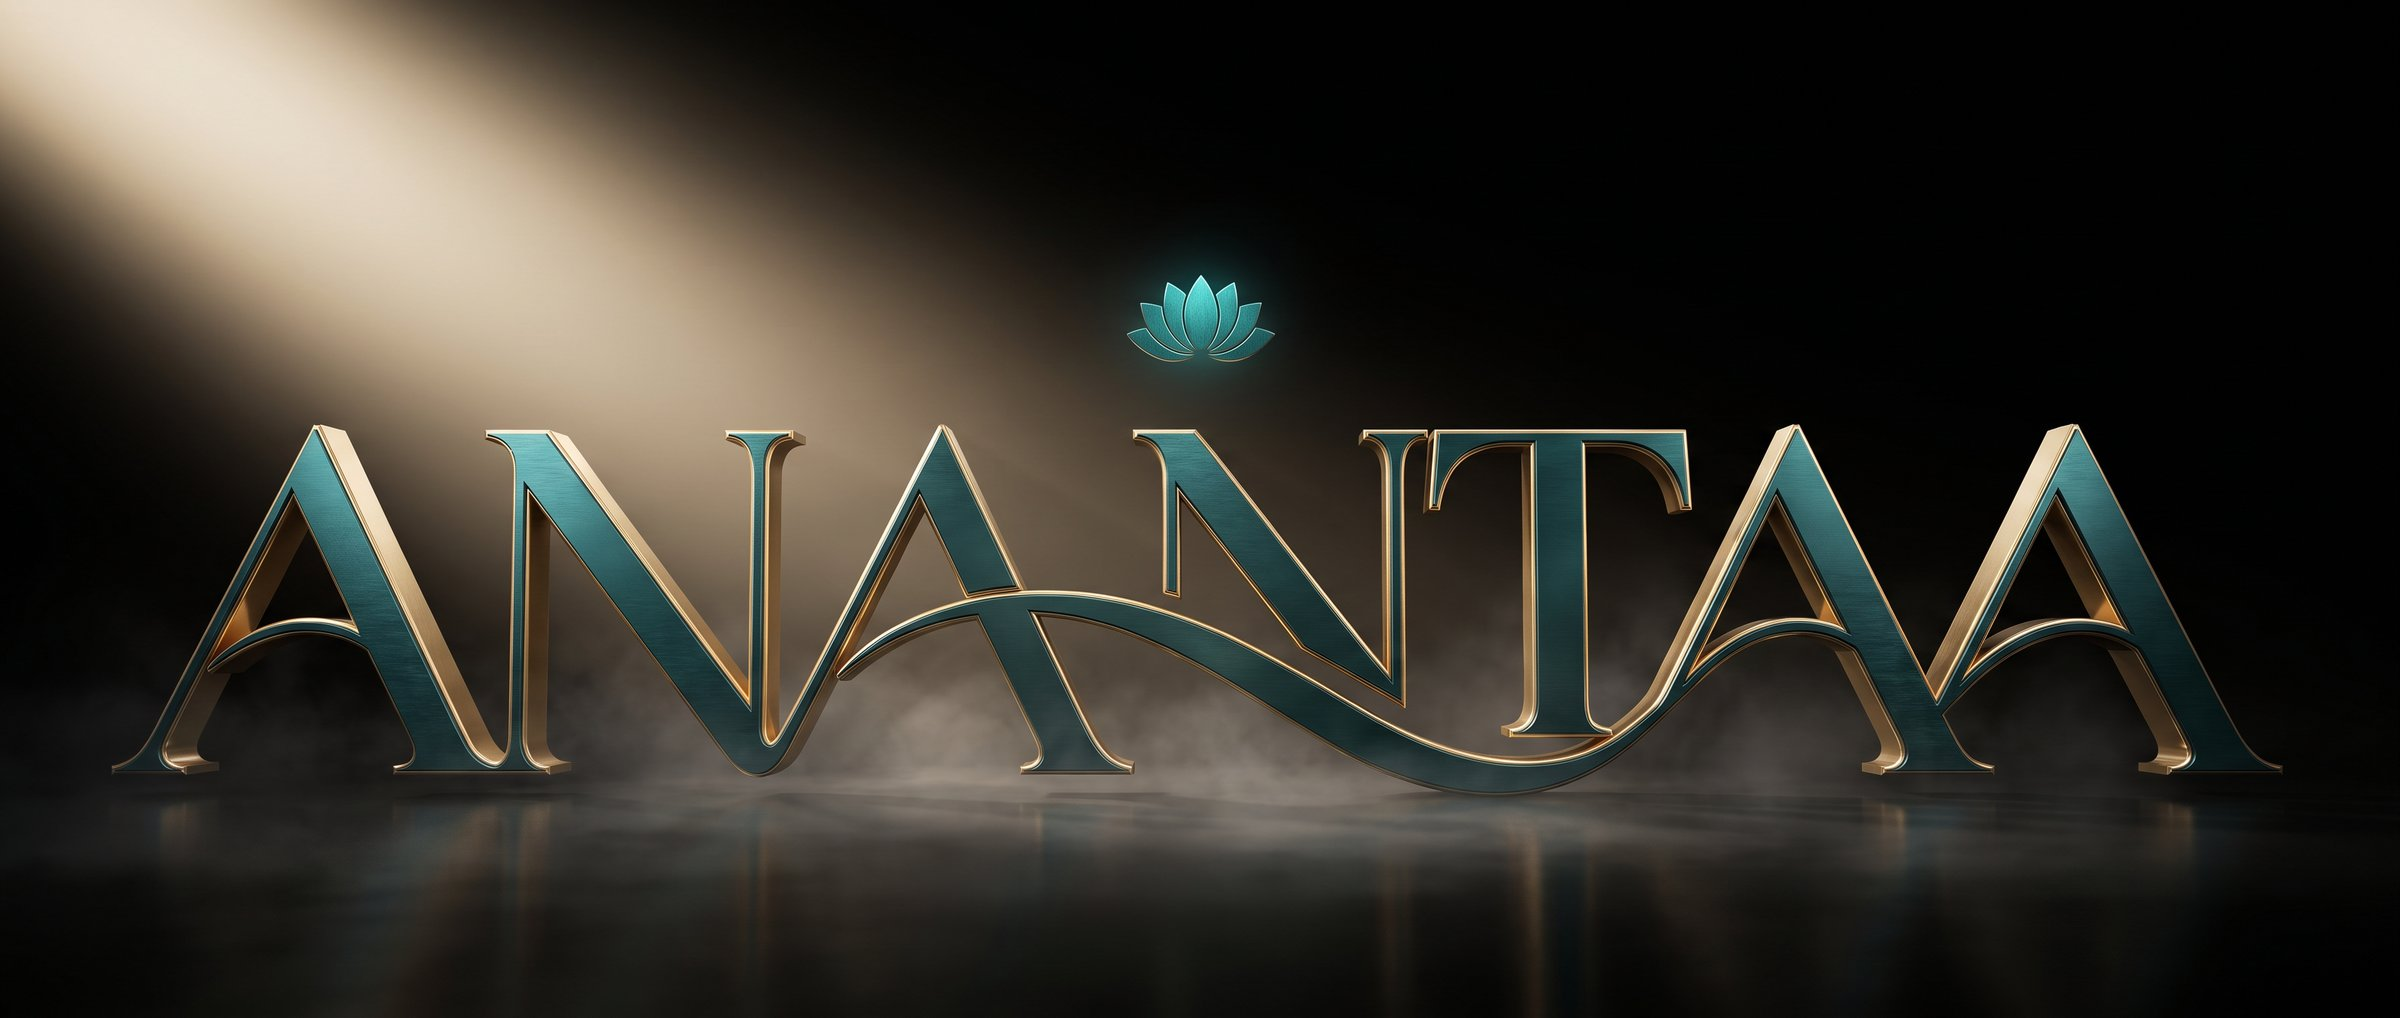
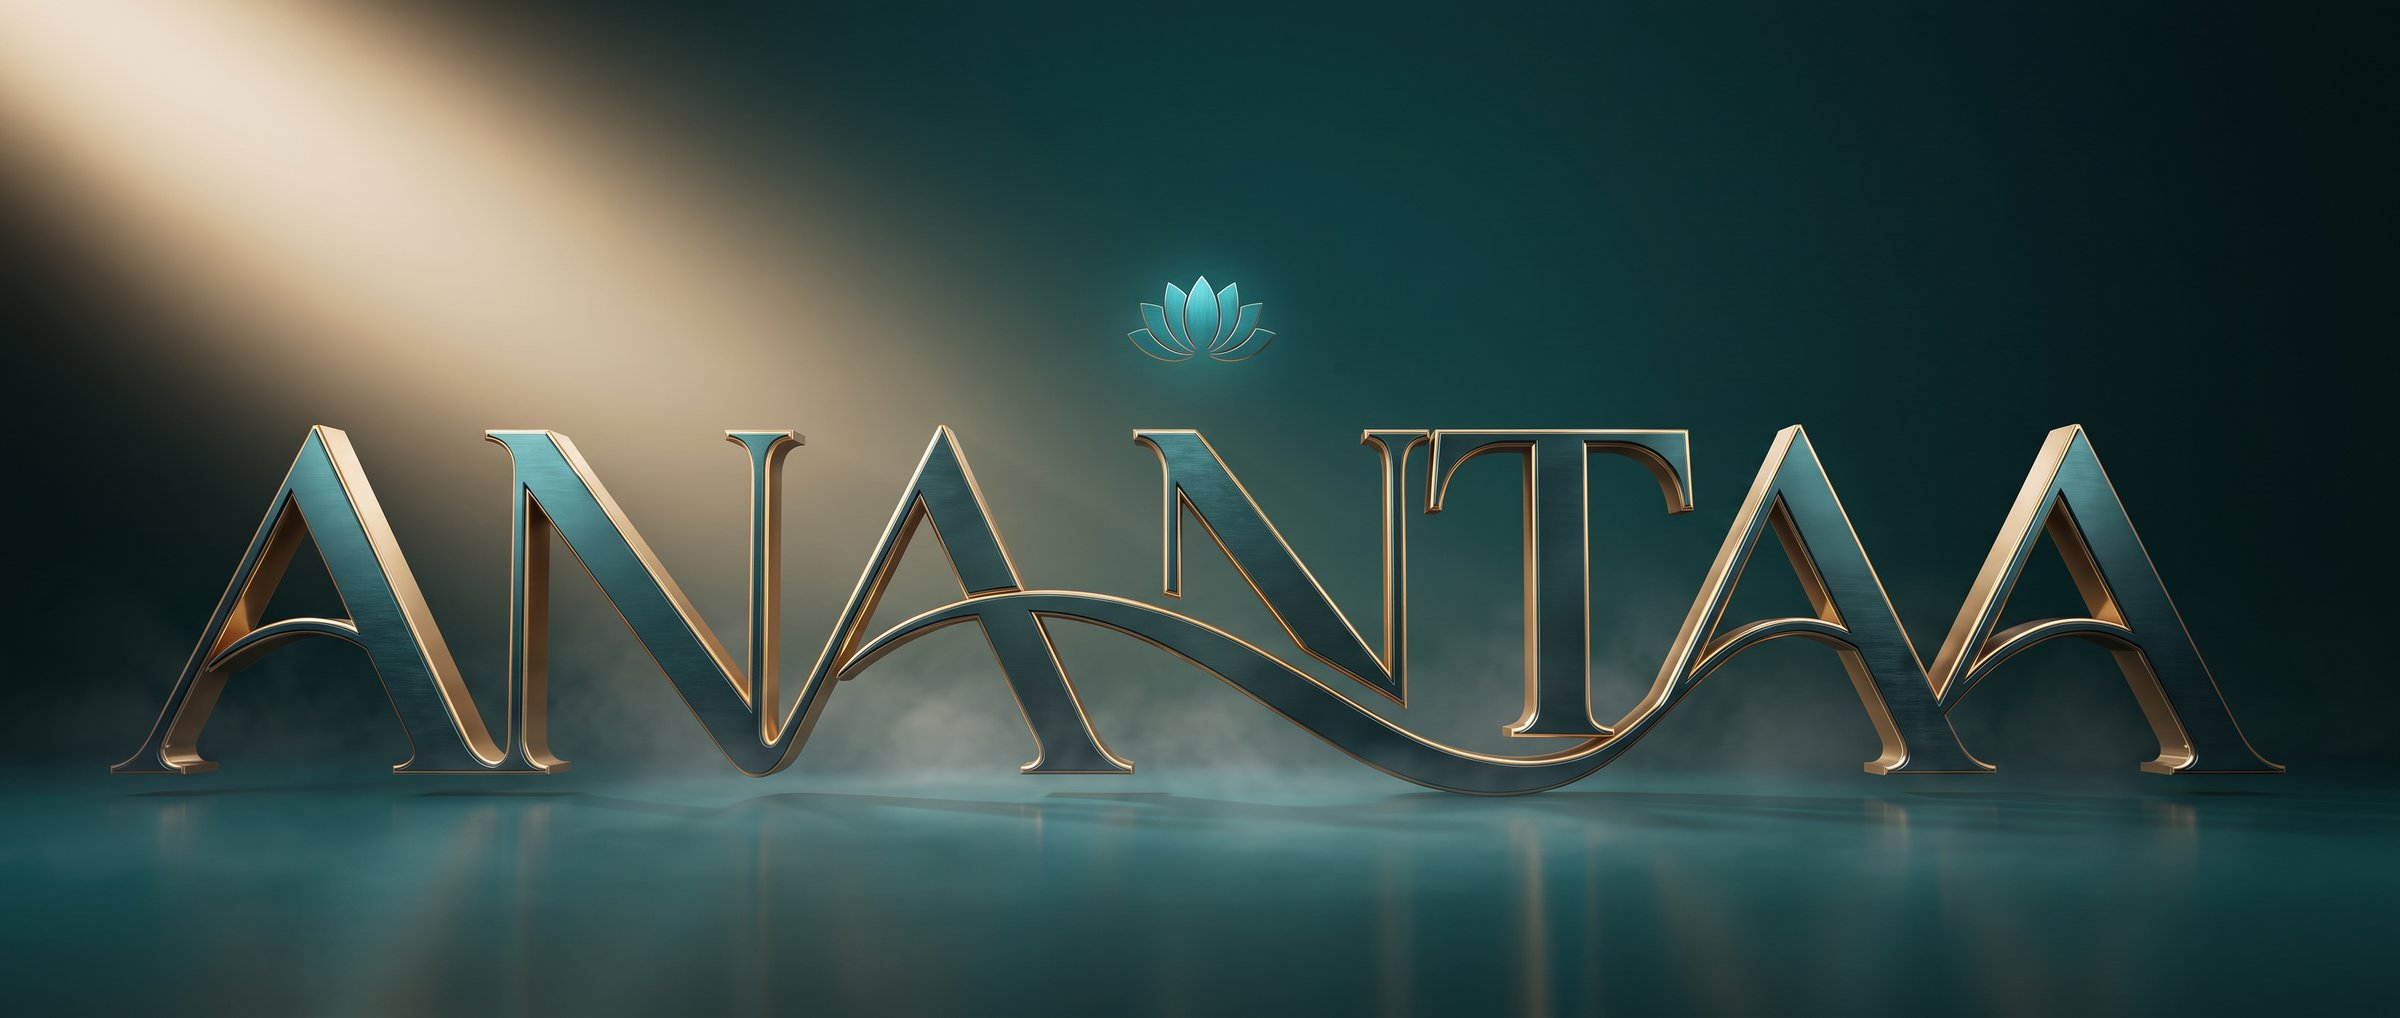
Launch section on brand teal: render regenerated on teal, no black band, image feathered into the section, gold button

diff --git a/mrc.css b/mrc.css
@@ -456,10 +456,11 @@ footer.site .about { font-size: .93rem; max-width: 42ch; margin-top: 1.2rem; }
 .hero-trust-dot { width: 6px; height: 6px; border-radius: 50%; background: var(--teal-mid); display: inline-block; margin-right: .5rem; }
 
 /* ---- launch: studio hero of the wordmark; lights come up, a light sweeps, slow parallax ---- */
-.launch-pro { position: relative; background: #000; color: #fff; overflow: hidden; aspect-ratio: 2400 / 1330; min-height: 0; padding: 0; --p: .5; }
+.launch-pro { position: relative; background: linear-gradient(180deg, #0f3a3e 0%, #092426 100%); color: #fff; overflow: hidden; aspect-ratio: 2400 / 1180; min-height: 0; padding: 0; --p: .5; }
 .launch-pro .scene { position: absolute; inset: 0; }
 .launch-pro .scene img {
   width: 100%; height: 100%; object-fit: contain; object-position: center bottom; display: block;
+  -webkit-mask-image: linear-gradient(to bottom, transparent 12%, #000 36%); mask-image: linear-gradient(to bottom, transparent 12%, #000 36%);
   opacity: 0; scale: 1.08; filter: brightness(.15);
   translate: 0 calc((var(--p) - .5) * 40px);
 }
@@ -467,11 +468,13 @@ footer.site .about { font-size: .93rem; max-width: 42ch; margin-top: 1.2rem; }
   position: absolute; inset: -30% -60%; pointer-events: none; mix-blend-mode: screen; opacity: 0;
   background: linear-gradient(112deg, transparent 42%, rgba(255,240,215,.16) 50%, transparent 58%);
 }
-.launch-pro .intro { position: relative; z-index: 1; text-align: center; padding-top: clamp(2.5rem, 5vw, 5rem); opacity: 0; }
+.launch-pro .intro { position: relative; z-index: 1; text-align: center; padding-top: clamp(1.8rem, 3vw, 2.8rem); opacity: 0; }
 .launch-pro .intro .display { color: #fff; font-size: clamp(2.4rem, 5vw, 3.8rem); letter-spacing: .02em; }
 .launch-pro .intro .tag { margin-top: .6rem; font-family: var(--font-d); font-size: clamp(1.2rem, 2.2vw, 1.7rem); font-weight: 500; color: rgba(255,255,255,.92); }
-.launch-pro .intro .when { margin-top: .5rem; font-size: 1.02rem; color: rgba(255,255,255,.55); }
-.launch-pro .intro .hero-cta { justify-content: center; margin-top: 1.6rem; }
+.launch-pro .intro .when { margin-top: .5rem; font-size: 1.02rem; color: rgba(255,255,255,.62); }
+.launch-pro .intro .hero-cta { justify-content: center; margin-top: 1.3rem; }
+.launch-pro .intro .btn-ink { background: var(--gold); color: var(--text); }
+.launch-pro .intro .btn-ink:hover { background: #d3bb95; box-shadow: 0 10px 32px rgba(196,169,125,.4); }
 html.js .launch-pro.in .scene img { animation: lightsUp 3s var(--ease) .1s forwards; }
 html.js .launch-pro.in .sweep { animation: sweep 9s ease-in-out 3.2s infinite; }
 html.js .launch-pro.in .intro { animation: riseIn 1s var(--ease) 1.6s forwards; }
@@ -481,7 +484,7 @@ html.js .launch-pro.reveal { opacity: 1; transform: none; }
 html:not(.js) .launch-pro .scene img { opacity: 1; scale: 1; filter: none; }
 html:not(.js) .launch-pro .intro { opacity: 1; }
 @media (max-width: 760px) {
-  .launch-pro { aspect-ratio: auto; min-height: 118vw; }
+  .launch-pro { aspect-ratio: auto; min-height: 112vw; }
   .launch-pro .scene img { object-fit: contain; object-position: center bottom; }
   .launch-pro .intro { padding-top: 2.5rem; }
 }
